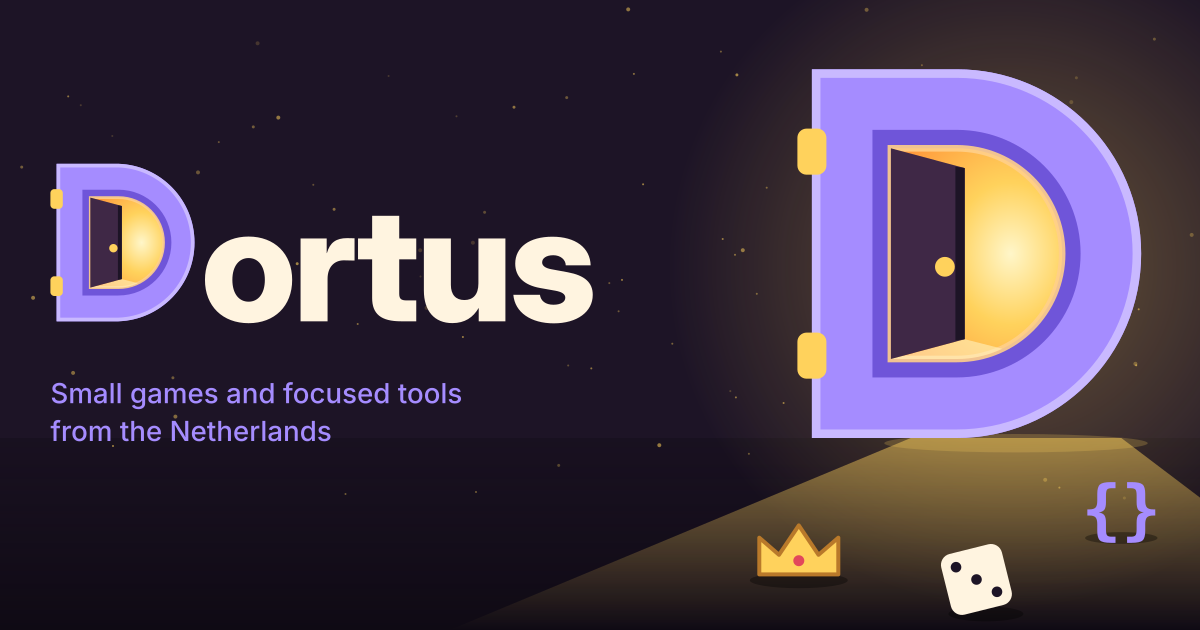
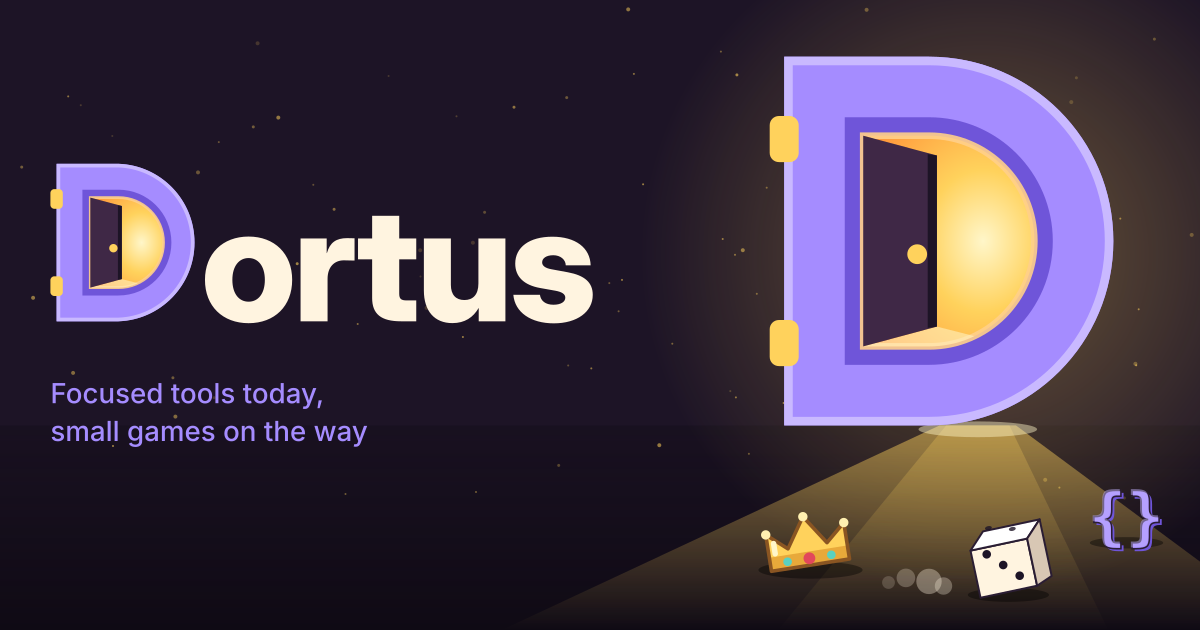
Abel: og en social met onderregel die vandaag klopt, dortus.com en GitHub-plan bijgewerkt

diff --git a/platformen/abel/dortus-com/index.html b/platformen/abel/dortus-com/index.html
@@ -3,13 +3,13 @@
 <head>
   <meta charset="utf-8" />
   <meta name="viewport" content="width=device-width, initial-scale=1" />
-  <title>Dortus: small games and focused tools that fill a real gap</title>
-  <meta name="description" content="Dortus makes small games and focused tools: Rollwright for Obsidian, Bison &amp; Flex for JetBrains IDEs, Click Joints for Blender. Made by Thijs in the Netherlands." />
+  <title>Dortus: focused tools that fill a real gap</title>
+  <meta name="description" content="Dortus makes focused tools, with small games on the way: Rollwright for Obsidian, Bison &amp; Flex for JetBrains IDEs, Click Joints for Blender. Made by Thijs in the Netherlands." />
   <meta name="theme-color" content="#1d1426" />
   <link rel="icon" href="/assets/dortus-door-small.svg" type="image/svg+xml" />
   <link rel="apple-touch-icon" href="/assets/dortus-door-512.png" />
   <link rel="canonical" href="https://dortus.com/" />
-  <meta property="og:title" content="Dortus: small games and focused tools" />
+  <meta property="og:title" content="Dortus: focused tools today, small games on the way" />
   <meta property="og:description" content="Tools that fill a real gap in Obsidian, JetBrains IDEs and Blender. Made by Thijs in the Netherlands." />
   <meta property="og:type" content="website" />
   <meta property="og:url" content="https://dortus.com/" />
@@ -64,7 +64,7 @@
     <section class="hero">
       <div>
       <h1>Small tools that fill a <em>real gap.</em></h1>
-      <p>Dortus makes focused plugins and small games. Each one does one thing well, is made to look good, and says plainly what is free and what is paid.</p>
+      <p>Dortus makes focused plugins, and our first small game is on the way. Each one does one thing well, is made to look good, and says plainly what is free and what is paid.</p>
       </div>
       <img class="door" src="/assets/dortus-door.svg" alt="The Dortus D: a door standing ajar with warm light behind it" />
     </section>

diff --git a/platformen/abel/accounts/github.md b/platformen/abel/accounts/github.md
@@ -1,6 +1,6 @@
 # GitHub: kant-en-klaar plan (Abel)
 
-Versie 2, 10 nov 2026 01:50 NL. Status: avatar van Mila staat er (`merk/avatar-512.png`), teksten klaar, wacht op Daans akkoord.
+Versie 3, 10 nov 2026 04:00 NL. Status: klaar, akkoord Daan (keuring 2 voor avatar en teksten, keuring 3 voor social v2). Avatar `merk/avatar-512.png` tot Daan Mila's avatar v2 keurt; dan `avatar-512-v2.png`.
 
 ## Proef
 `merk/proef/github-repo-light.png` en `-dark.png`: de repopagina van Rollwright met de nieuwe avatar (op 24 px leest hij als een lila D, op wit en op donker). Het vak About staat er nog leeg in, zo ziet het er nu uit; stap 2 vult het.
@@ -23,7 +23,7 @@ github.com > avatar rechtsboven > **Settings** > Public profile.
 |---|---|
 | Profielfoto | `platformen/abel/merk/avatar-512.png` |
 | Name | `Thijs · Dortus` |
-| Bio | `Small games and focused tools that fill a real gap. Obsidian, Blender, JetBrains, Steam.` (max 160 tekens) |
+| Bio | `Focused tools for Obsidian, Blender and JetBrains. A tiny dungeon game is on its way to Steam.` (95 tekens, max 160) |
 | URL | `https://dortus.com` |
 | Company | `Dortus` |
 | Location | `Netherlands` |
@@ -44,8 +44,10 @@ Let op: de beschrijving van Rollwright moet kloppen met de README. Elk deel staa
 ## Stap 2b. Vastgezette repo's (Thijs, ±1 min)
 Profielpagina > **Customize your pins** > kies `rollwright` en `click-joints` (later ook het spel als dat een openbare repo krijgt). Niet `dortus-hq`: die is openbaar (nodig om de testuitslagen te lezen), maar het is ons interne kantoor met Nederlandse logboeken. Een bezoeker die op zoek is naar een pluginmaker moet eerst de producten zien.
 
-## Stap 3. Social preview (later, ±1 min per repo)
-Settings van de repo > Social preview > `social-1280x640.png` per product (Mila, maat 1280 x 640, DERDEN in `merk/maten.md`). Pas als Mila die maakt; niet nodig voor de eerste ronde.
+## Stap 3. Social preview (±1 min per repo)
+Dit plaatje toont GitHub als iemand een repolink deelt (Discord, Reddit, forum). Nu is dat een grijs standaardkaartje.
+Repo > **Settings** > General > **Social preview** > Edit > Upload an image: `platformen/abel/merk/social-1280x640-v2-nu.png` (1280 x 640, 129 kB; GitHub wil minder dan 1 MB). Doen bij `rollwright` en `click-joints`.
+Waarom de `-nu`-versie: dat is Mila's social v2 (akkoord Daan, keuring 3) met als onderregel "Focused tools today, small games on the way" in plaats van "Small games and focused tools". Daan vroeg dat het plaatje pas over spellen praat als Hats of the Fallen op Steam staat (keuring 2, kan 5). Komt Mila met een eigen plaatje per repo, dan dat gebruiken.
 
 ## Wat ik niet zelf doe
 Beschrijving en topics van een repo kan ik niet zetten (mijn GitHub-tools hebben geen "repo bijwerken"). README's van Rollwright en Click Joints komen uit dortus-hq via de publiceerscripts van hun managers; daar kom ik niet aan.
